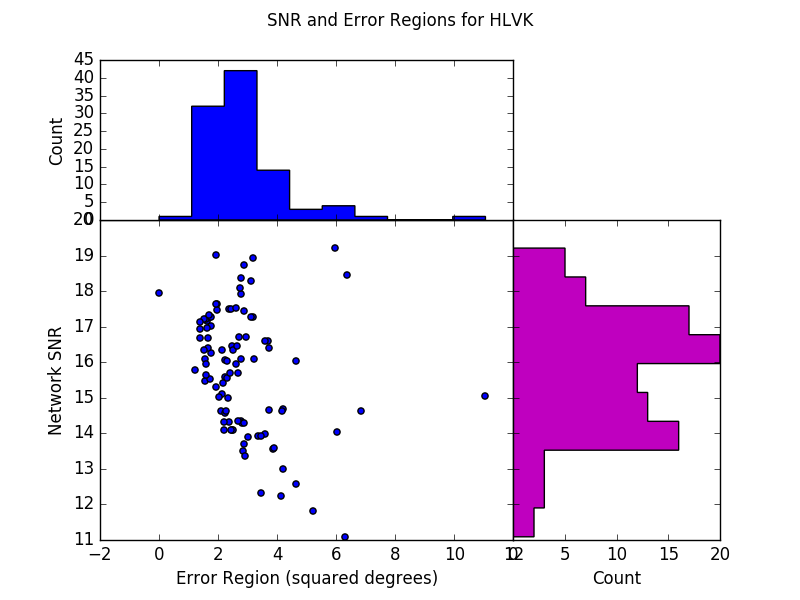
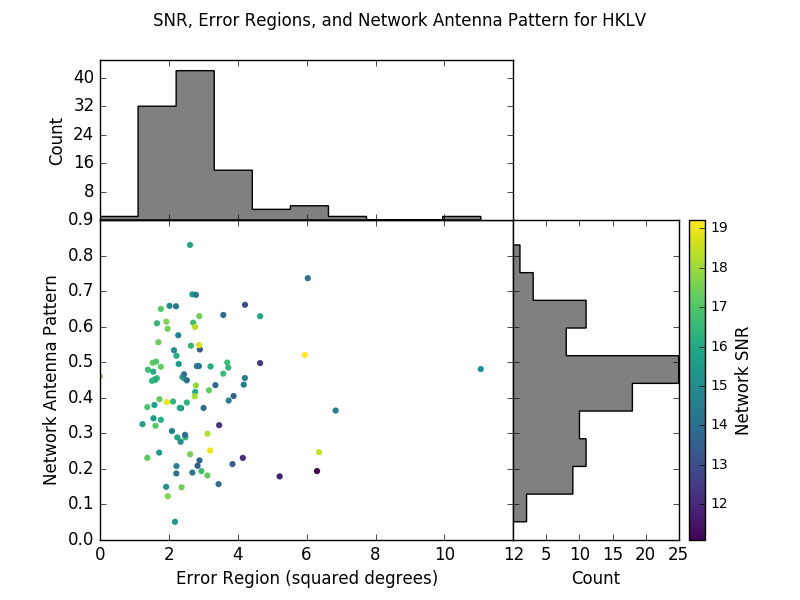
scatter.py, skyutils.py: Created scatterplot with assosiated histograms of error region, network antenna pattern, and snr

diff --git a/scripts/scatter.py b/scripts/scatter.py
@@ -15,6 +15,7 @@ from matplotlib import pyplot as plt
 from matplotlib import cm as mpl_cm
 from matplotlib import lines as mpl_lines
 from matplotlib import colorbar
+from matplotlib.ticker import MaxNLocator
 import matplotlib.gridspec as gridspec
 
 from skyutils import *
@@ -119,6 +120,7 @@ ra_grid, dec_grid, net_pat, net_align, dpf = \
     net_antenna_pattern(gpstime, network)
 #print np.max(net_pat), np.max(net_align)
 
+
 # FIXME: Still getting warnings, not sure how this is supposed to work.
 #net_pat, ra_grid = basemap.shiftgrid(180, net_pat.flatten(), ra_grid.flatten(), start=False)
 #net_pat_tmp, ra_grid_tmp = basemap.shiftgrid(180., net_pat.flatten(), ra_grid.flatten())
@@ -204,7 +206,7 @@ cspecs = parse_colorspecs(args.colorspecs)
 for label, cmap in cspecs.iteritems():
     print label + " => " + str(cmap)
 
-error_regions = defaultdict(list)
+config_information = defaultdict(list)
 pspecs = parse_pathspecs(args.pathspecs)
 for label, globpat in pspecs.iteritems():
 
@@ -214,7 +216,7 @@ for label, globpat in pspecs.iteritems():
     print "Globbed %d files for pattern %s" % (len(files), globpat)
 
     plt.figure(0)
-    for filename in files:
+    for filename in files: #[:3]:  # Change this to run faster
         enum = get_event_num(filename)
         print "Processing event %d" % enum
 
@@ -244,8 +246,6 @@ for label, globpat in pspecs.iteritems():
             snrs[k] = float(snrs[k])
         print snrs
         print snrs["Network"]
-        error_regions[label].append([prb68 * pix_size, snrs["Network"]])
-
 
         if True:
             cmap = cspecs[label]
@@ -281,15 +281,33 @@ for label, globpat in pspecs.iteritems():
             ra_int, dec_int = m(ra_int, dec_int)
 
             m.contour(ra_int, dec_int, prob_int, [sky_data["prob"][prb68]], colors=(linecolor,), linewidths=0.5)
+
+            # Find where prob_int is the highest
+            max_indices = np.unravel_index(np.argmax(prob_int), prob_int.shape)
+
+            # Find this location in ra and dec
+            ra_max = ra_int[max_indices]
+            dec_max = dec_int[max_indices]
+
+            # Find closest values in ra_grid and dec_grid
+            #index_ra =  np.unravel_index(np.argmin(np.abs(ra_grid - ra_max)), ra_grid.shape)
+            #index_dec =  np.unravel_index(np.argmin(np.abs(dec_grid - dec_max)), dec_grid.shape)
+
+
+            # Find related net_pat value at that index
+            # FIXME: I am only using the network pattern value corresponding to the ra, while ignoring dec
+            #antenna_pattern = net_pat[index_ra]
+            #config_information[label].append([prb68 * pix_size, snrs["Network"], antenna_pattern])
+
+            # Use gpstime of this injection to find the network antenna pattern at that time at this ra and dec
+            antenna_pattern = net_antenna_pattern_point(gmst, network, ra_max, dec_max, norm=True)[3]
+            config_information[label].append([prb68 * pix_size, snrs["Network"], antenna_pattern])
+
             # Debuggin
             #m.scatter(ra_int.flatten()[-200000:], dec_int.flatten()[-200000:], c=prob_int.flatten()[-200000:], marker='.', edgecolor='none')
 
         # FIXME: temporary
         plt.savefig("test_map.png")
-
-print '\n'
-print '\n'
-print '==============================================================================='
 
 plt.figure(1)
 gs = gridspec.GridSpec(3, 3)
@@ -297,32 +315,48 @@ gs.update(hspace=0.0, wspace=0.0)
 ax1 = plt.subplot(gs[1:, :-1])
 ax2 = plt.subplot(gs[0, :-1], sharex=ax1)
 ax3 = plt.subplot(gs[1:, 2], sharey=ax1)
-# err_ref is an iterable where the 0th entry is the error region and first is network SNR
-for label, err_reg in error_regions.iteritems():
-    print label
-    err_reg = np.asarray(err_reg)
-    print err_reg
+
+for label, config in config_information.iteritems():
+    config = np.asarray(config)
+    err_reg = config[:, 0]
+    snr = config[:, 1]
+    antenna_pattern = config[:, 2]
 
     # Scatter plot of SNR vs. Error Regions
-    ax1.scatter(err_reg[:, 0], err_reg[:, 1], label=label)
+    scatter = ax1.scatter(err_reg, antenna_pattern, c=snr, edgecolors='None', label=label, cmap='viridis')
     #ax1.tick_params(top='off', bottom='on', left='on', right='off')
     ax1.set_xlabel('Error Region (squared degrees)')
-    ax1.set_ylabel('Network SNR')
+    ax1.set_ylabel('Network Antenna Pattern')
+    ax1.set_xlim(0, None)
 
     # Histogram of Error Regions
-    ax2.hist(err_reg[:, 0], color='b', histtype='stepfilled')
+    ax2.hist(err_reg, color='gray', histtype='stepfilled')
     ax2.tick_params(axis='x', top='on', bottom='on', labelbottom='off', labeltop='off')
     ax2.set_ylabel('Count')
+    nbins = len(ax1.get_xticklabels())
+    ax2.yaxis.set_major_locator(MaxNLocator(nbins=nbins, prune='lower'))
 
     # Histogram of SNRs
-    ax3.hist(err_reg[:, 1], color='m', histtype='stepfilled', orientation='horizontal')
+    ax3.hist(antenna_pattern, color='gray', histtype='stepfilled', orientation='horizontal')
     ax3.tick_params('y', left='on', right='on', labelleft='off', labelright='off')
     ax3.set_xlabel('Count')
+    #nbins = len(ax3.get_xticklabels())
+    #ax3.yaxis.set_major_locator(MaxNLocator(nbins=nbins, prune='lower'))
+    xticks = ax3.xaxis.get_major_ticks()
+    xticks[0].label1.set_visible(False)
+
+
     #ax3.set_yticklabels([])
 
     #ax1.xlabel('Error Region (squared degrees)')
     #ax1.ylabel('Network SNR')
-    plt.suptitle('SNR and Error Regions for HLVK')
+    plt.suptitle('SNR, Error Regions, and Network Antenna Pattern for HKLV')
+    #plt.subplots_adjust(right=0.8)
+    #cbar_ax = plt.add_axes([0.85, 0.15, 0.05, 0.7])
+    cbar = plt.colorbar(scatter, label='Network SNR')
+    cbar.ax.tick_params(labelsize=10)
+
+
     #ax1.grid()
     #plt.step(err_reg[0], yaxis, label=label)
 

diff --git a/scripts/skyutils.py b/scripts/skyutils.py
@@ -90,6 +90,59 @@ def net_antenna_pattern(gpstime, network, psi=0, npts=100, norm=False):
 
     return ra_grid, dec_grid, net_pat, net_align, net_dpf
 
+
+def net_antenna_pattern_point(gpstime, network, ra_rad, de_rad, psi=0, npts=100, norm=False):
+
+    """
+    Only get the network antenna pattern at a given ra and dec of interest
+    """
+
+    # FIXME: need to check on this
+    gps = LIGOTimeGPS(gpstime)
+    gmst_rad = GreenwichMeanSiderealTime(gps)
+
+    ra_grid, dec_grid = _sph_grid(npts)
+
+    net_pat = np.zeros(ra_grid.shape[0]*ra_grid.shape[1])
+
+    net_align = np.zeros(ra_grid.shape[0]*ra_grid.shape[1])
+    net_dpf = np.zeros(ra_grid.shape[0]*ra_grid.shape[1])
+
+    psi_rad = 0
+    #i = 0
+
+    #import pdb; pdb.set_trace()
+    fp = [ComputeDetAMResponse(detectors[ifo].response, ra_rad, de_rad, psi_rad, gmst_rad)[0] for ifo in network]
+    fx = [ComputeDetAMResponse(detectors[ifo].response, ra_rad, de_rad, psi_rad, gmst_rad)[1] for ifo in network]
+    fp = np.asarray(fp)
+    fx = np.asarray(fx)
+    fp2, fx2 = np.dot(fp, fp), np.dot(fx, fx)
+
+    net_dpf = psi_dpf = 0.5 * np.arctan2(2 * np.dot(fp, fx), (fp2 - fx2))
+
+    fp, fx = fp * np.cos(psi_dpf) + fx * np.sin(psi_dpf), \
+            -fp * np.sin(psi_dpf) + fx * np.cos(psi_dpf)
+    fp2, fx2 = np.dot(fp, fp), np.dot(fx, fx)
+    net_pat = np.sqrt(fp2 + fx2)
+    net_align = np.sqrt(fx2 / fp2)
+
+
+    ra_grid *= 180/np.pi
+    dec_grid *= 180/np.pi
+
+    #net_pat = net_pat.reshape(ra_grid.shape)
+    #net_align = net_align.reshape(ra_grid.shape)
+    #net_dpf = net_dpf.reshape(ra_grid.shape) / 2 # we multiplied by two above
+
+    if norm:
+        net_pat /= np.sqrt(2 * len(network))
+
+    return ra_grid, dec_grid, net_pat, net_align, net_dpf
+
+
+
+
+
 def net_gradient(net_pat, npts=20):
     dra = np.pi/npts
     ddec = np.pi/npts
